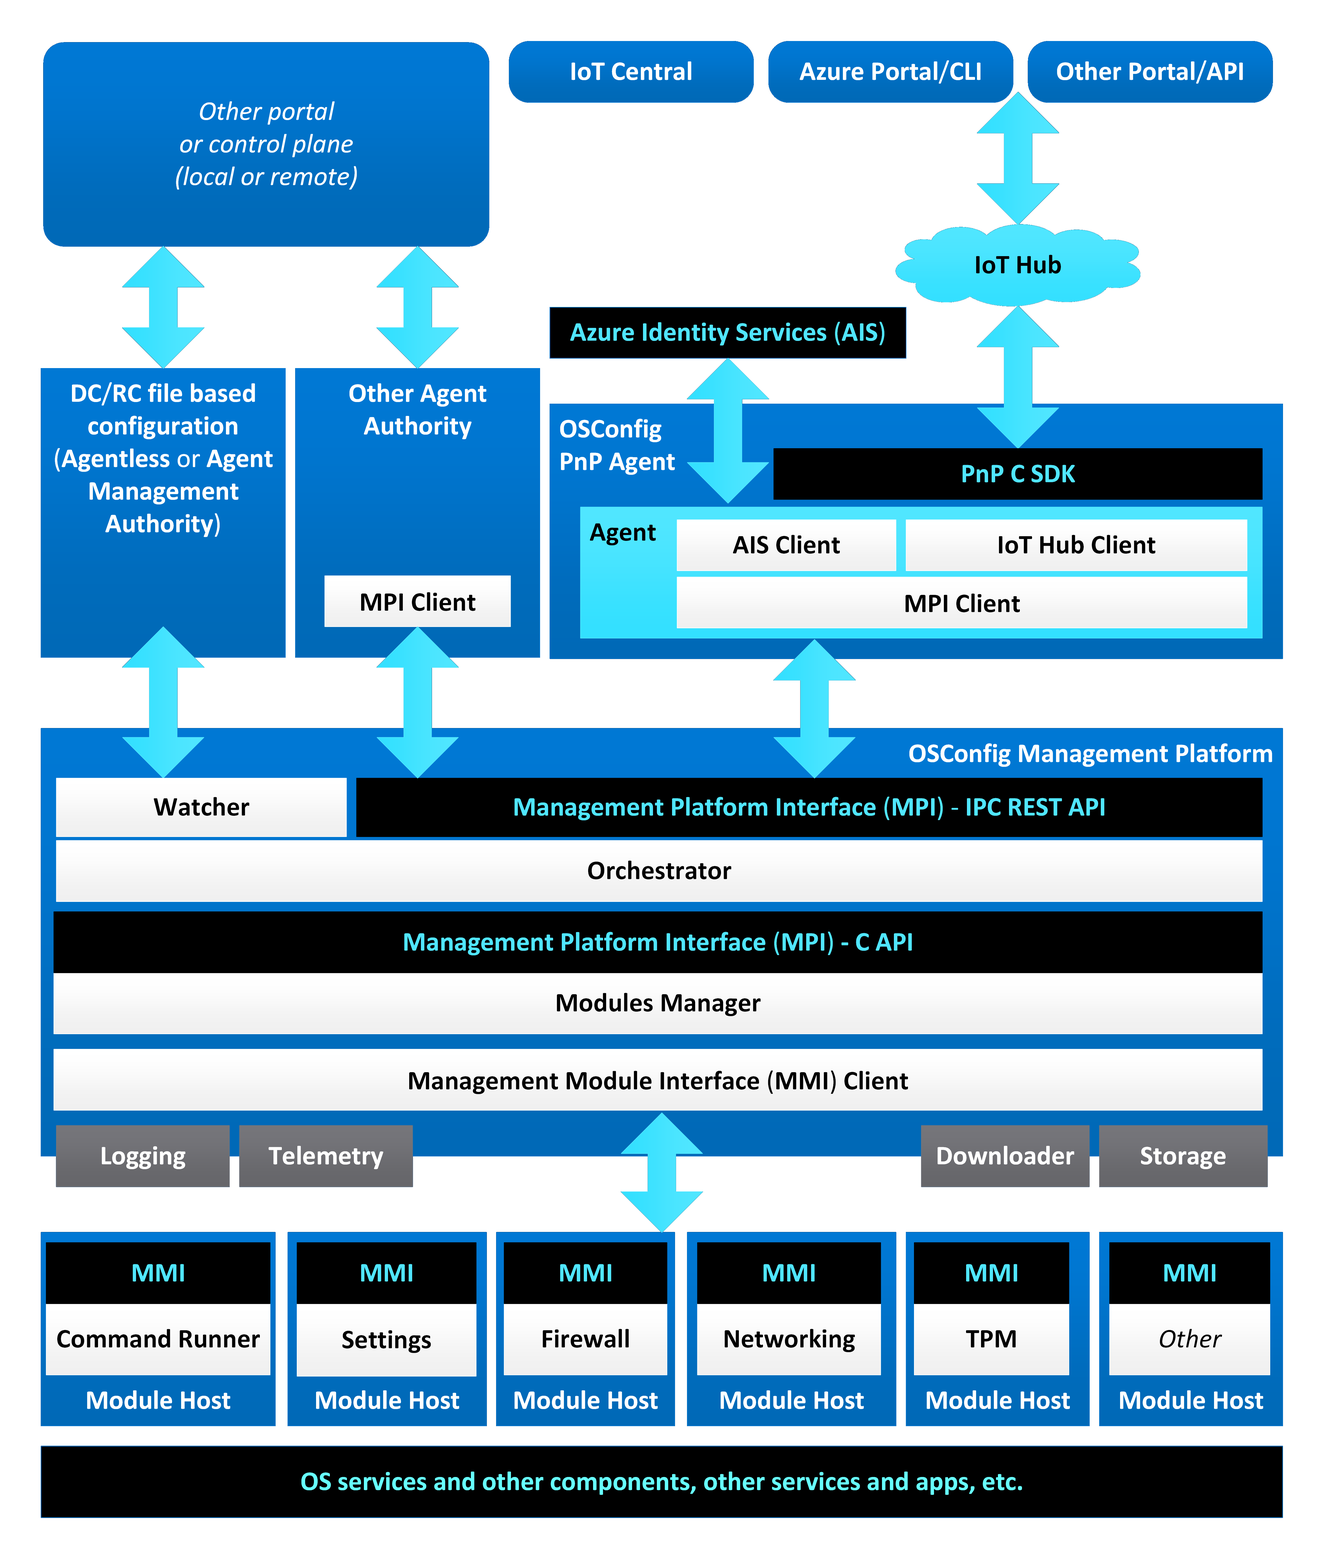
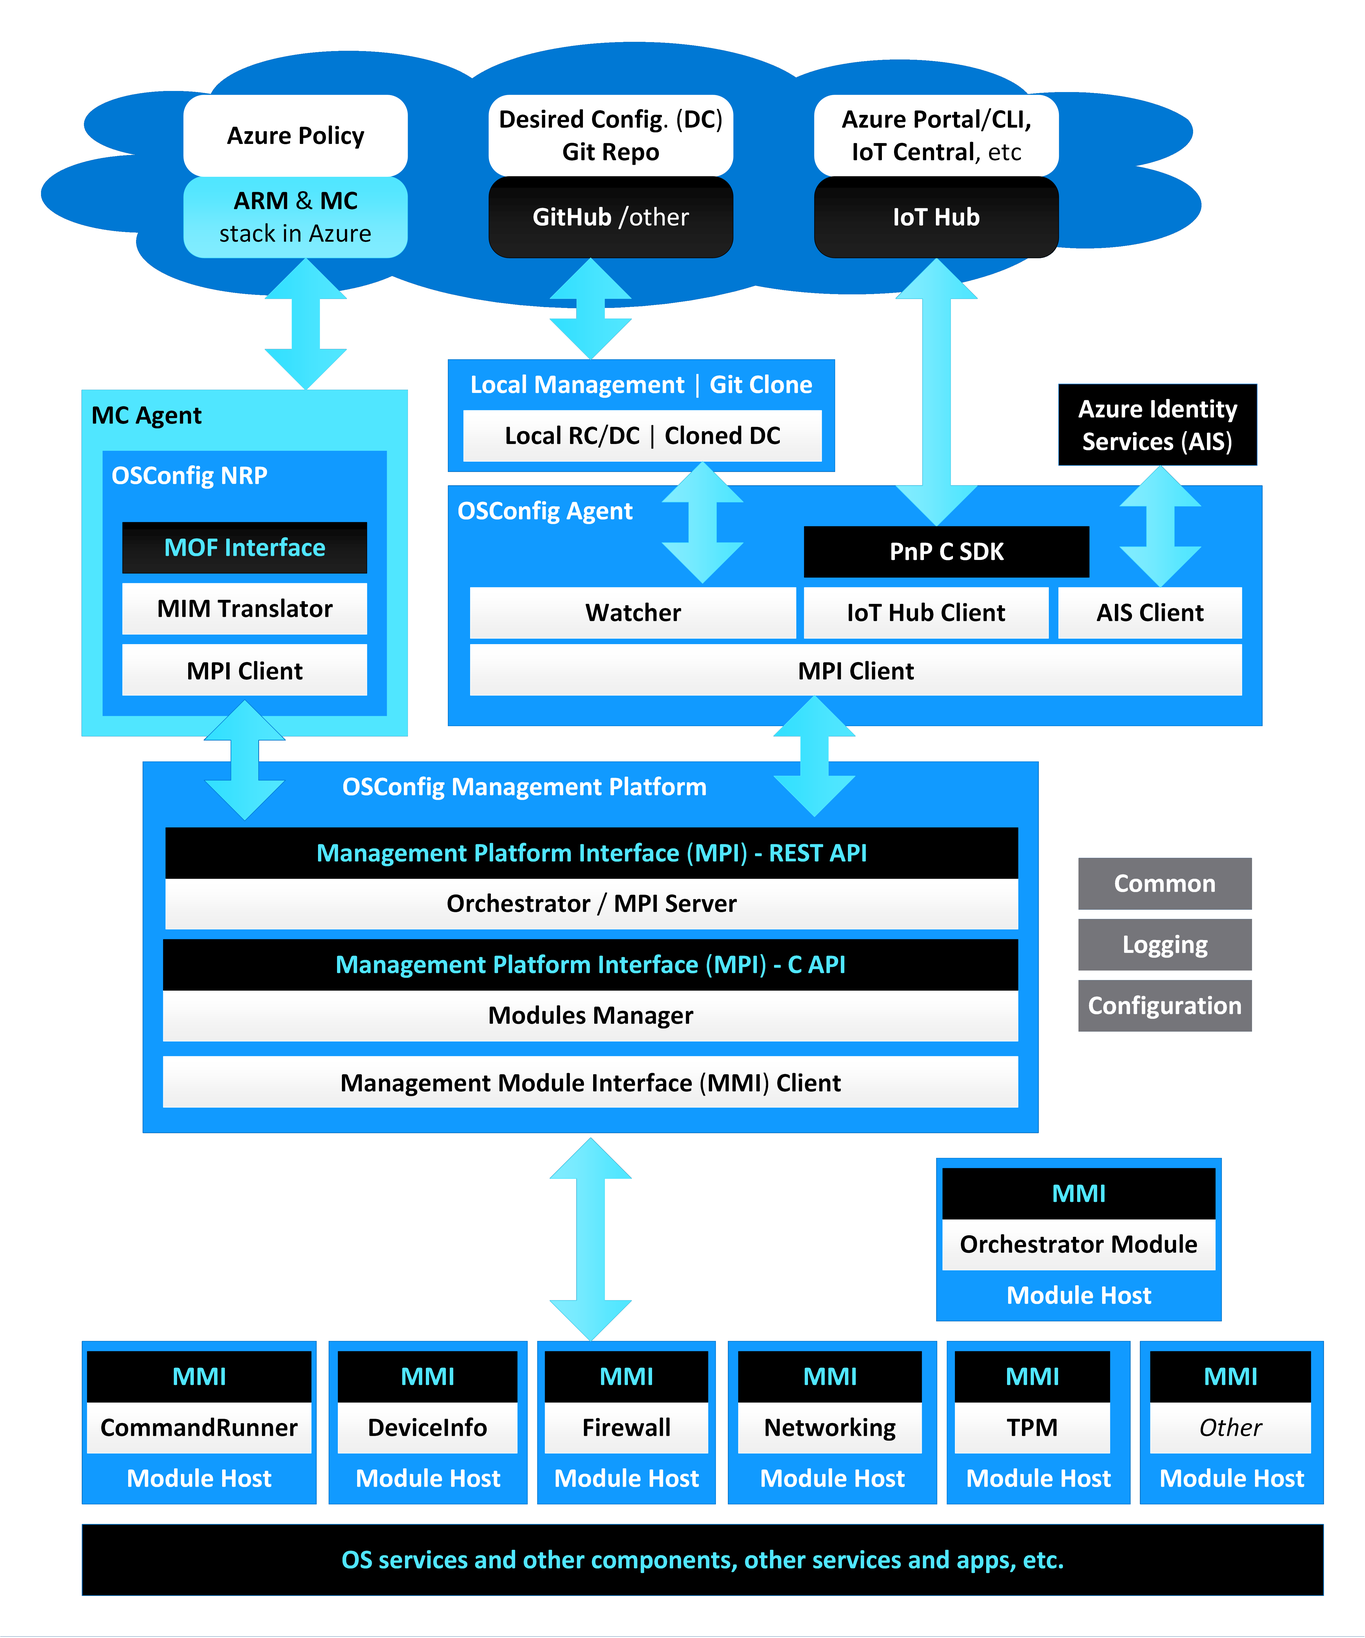
Updating the documentation for Azure Policy, GitOps and more.

diff --git a/docs/architecture.md b/docs/architecture.md
@@ -4,7 +4,7 @@ Author: [MariusNi](https://github.com/MariusNi)
 
 # 1. Introduction
 
-Azure Device OS Configuration (OSConfig) is a modular services stack running on a Linux Edge device that facilitates remote Linux IoT device management over Azure (via [Azure PnP](https://docs.microsoft.com/en-us/azure/iot-pnp/overview-iot-plug-and-play), [Digital Twins](https://github.com/Azure/opendigitaltwins-dtdl/blob/master/DTDL/v2/dtdlv2.md), IoT Hub, [IoT Central](https://azure.microsoft.com/en-us/services/iot-central/), Azure Portal/CLI) as well local management (such as from OOBE and ADU, etc.). On the device OSConfig runs alongside [Azure Device Update (ADU)](https://github.com/Azure/adu-private-preview), Defender, Edge Runtime, and others.
+Azure Device OS Configuration (OSConfig) is a modular services stack running on a Linux Edge device that facilitates remote Linux device management over Azure (via [Azure PnP](https://docs.microsoft.com/en-us/azure/iot-pnp/overview-iot-plug-and-play), [Digital Twins](https://github.com/Azure/opendigitaltwins-dtdl/blob/master/DTDL/v2/dtdlv2.md), IoT Hub, [IoT Central](https://azure.microsoft.com/en-us/services/iot-central/), Azure Portal/CLI), Azure Policy, as well local management (such as from OOBE and ADU, etc.). On the device OSConfig runs alongside [Azure Device Update (ADU)](https://github.com/Azure/adu-private-preview), Defender, Edge Runtime, and others.
 
 <img src="assets/bigpicture.png" alt="OSConfig" width=80%/>
 
@@ -16,18 +16,18 @@ Core design principles for OSConfig are the following:
 - Portable and extensible to other management platforms.
 - Simple and focused on what is truly needed.
 - Not permanently tied to Azure IoT.
-- Declarative style device management, Digital Twin-like.
+- Declarative style device management.
 
 Modular, decoupled architecture means that each layer in OSConfig can be detached from the other OSConfig layers above it and be directly invoked:
 
-- The OSConfig Management Platform can be directly invoked by any management authority or agent over its Management Platform Interface (MPI). The platform is not permanently attached to the OSConfig PnP Agent and OSConfig is not permanently tied to Azure IoT.
+- The OSConfig Management Platform can be directly invoked by any management authority or agent over its Management Platform Interface (MPI). The platform is not permanently attached to the OSConfig Agent and OSConfig is not permanently tied to Azure IoT.
 - Each OSConfig Management Module can be directly invoked over the module's Management Module Interface (MMI), either in-proc or from separate process. The modules are not permanently attached to the platform.
 
 In general:
 
 - If only a module-specific function is needed, that module can be directly invoked over its MMI.
 - If orchestrated functionality of multiple modules is needed, the Platform can be invoked over MPI.
-- If remote reach over Azure and IoT Hub is needed, only then the PnP Agent becomes necessary.
+- If remote reach over Azure and IoT Hub is needed, only then the Agent becomes necessary.
 
 The main way of contributing to and extending OSConfig is via developing new [OSConfig Management Modules](modules.md).
 
@@ -37,17 +37,17 @@ This diagram shows the current North Star architecture of OSConfig. In this diag
 
 <img src="assets/osconfig.png" alt="OSConfig North Star" width=70%/>
 
-# 3. OSConfig PnP Agent
+# 3. OSConfig Agent
 
 ## 3.1. Introduction
 
-The OSConfig PnP Agent handles communication with IoT Hub. The agent is a thin client running as a daemon (Linux background service) using the IoT Client APIs from the [Azure IoT PnP C SDK](https://github.com/Azure/azure-iot-sdk-c) to connect to the IoT Hub that receives Desired Twin updates from and makes Reported Twin updates to the IoT Hub. 
+The OSConfig Agent handles communication with IoT Hub and Reported Configuration/Desired Configuration (RC/DC) files. The agent is a thin client running as a daemon (Linux background service) using the IoT Client APIs from the [Azure IoT PnP C SDK](https://github.com/Azure/azure-iot-sdk-c) to connect to the IoT Hub that receives Desired Twin updates from and makes Reported Twin updates to the IoT Hub and the RC/DC files. 
 
-The agent relies on the [Azure Identity Services (AIS)](https://azure.github.io/iot-identity-service/) to obtain a module identity that allows it to connect to the IoT Hub alongside other locally present PnP agents. 
+The agent relies on the [Azure Identity Services (AIS)](https://azure.github.io/iot-identity-service/) to obtain a module identity that allows it to connect to the IoT Hub alongside other locally present agents. 
 
-The agent communicates with the lower Management Platform over the Management Platform Interface (MPI) IPC REST API.
+The agent communicates with the OSConfig Management Platform over the Management Platform Interface (MPI) IPC REST API.
 
-<img src="assets/pnpagent.png" alt="OSConfig PnP Agent" width=50%/>
+<img src="assets/agent.png" alt="OSConfig Agent" width=50%/>
 
 The agent is completely decoupled from the platform and the modules. A new module can be installed, and necessary PnP interface(s) published as part of the OSConfig Model and that will be enough to make OSConfig use the respective module, without the need to recompile the agent or the platform.
 
@@ -58,6 +58,16 @@ The agent  uses the PnP C SDK's HTTP helper APIs to make GET and POST requests t
 ## 3.3. IoT Hub Client
 
 The agent's  IoT Hub Client parses the Desired Twin payload received from the IoT Hub to separate individual PnP property values. The agent does not attempt to parse the property values. 
+
+## 3.4. Watcher
+
+The Watcher monitors the Desired Configuration (DC) file and acts on detected file changes by making MpiSetDesired calls to the Management Platform. The Watcher also makes MpiGetReported calls to the Management Platform and writes the reported configuration to the Reported Configuration (RC) file. 
+
+The pair of DC and RC files are written in MIM JSON format. The RC/DC files act as local Device Twins. 
+
+To protect against unauthorized access, the DC and RC files are restricted to root user read and write access only.
+
+The  DC and RC files by default reside under /etc/osconfig/ as `/etc/osconfig/osconfig_desired.json` (the DC file) and `/etc/osconfig/osconfig_reported.json` (the RC file) but can be moved to a configurable location which could be a local Git clone, for example.
 
 ## 3.5. MPI Client
 
@@ -75,9 +85,9 @@ In the opposite direction, OSConfig agent periodically updates the Reported Twin
 
 ## 4.1. Introduction
 
-The OSConfig Management Platform runs in its own daemon process. The platform communicates with the upper agents layer (such as: the OSConfig PnP Agent, Azure Device Update Agent, a TBD OOBE Agent -a concept of OOBE components calling the OSConfig platform, etc.) over the Management Platform Interface (MPI) REST API. 
+The OSConfig Management Platform runs in its own daemon process. The platform communicates with the upper agents layer (such as: the OSConfig Agent, Azure Device Update Agent, a TBD OOBE Agent -a concept of OOBE components calling the OSConfig platform, etc.) over the Management Platform Interface (MPI) REST API. 
 
-The platform communicates to the lower modules layer over the Management Modules Interface (MMI) REST API.
+The platform communicates to the OSConfig Managewment Modules over the Management Modules Interface (MMI) REST API.
 
 <img src="assets/platform.png" alt="OSConfig Management Platform" width=60%/>
  
@@ -89,18 +99,16 @@ The platform includes the following main components:
 - Modules Manager: receives serialized requests over the MPI C API, dispatches the requests to Module Hosts over the MMI REST API.
 - MMI Client: makes MMI REST API calls to Module Hosts over HTTP and UDS. 
 
-The platform also includes following utility/helper components:
+The platform also includes several utility libraruies which are shared with all OSConfig components, including agent and modules:
 
-- Telemetry: telemetry event writing for the agent, platform, and the modules.
-- Logging: a logging library for the agent, platform and modules.
-- Storage: a library for secure storage for the platform and the modules that need to persist state.
-- Downloader: a library to help modules download files from Azure Storage. 
+- Logging: file and console circular logging library.
+- CommonUtils: various utility APIs useful for accesing and working with the Linux OS.
 
 The platform is completely decoupled from the agent and the modules. The platform can function without the agent, invoked over the MPI. New modules can be installed without changing or recompiling the platform.
 
 ## 4.2. Management Platform Interface (MPI)
 
-The Management Platform Interface (MPI) provides a way for the OSConfig Management Platform to be invoked by management authorities/Agents. 
+The Management Platform Interface (MPI) provides a way for the OSConfig Management Platform to be invoked by management authorities/agents. 
 
 The MPI has two different implementations:
 
@@ -138,17 +146,7 @@ Example:
 
 This format is following the MIM JSON payload schema described in the [OSConfig Management Modules](modules.md) specification.
 
-## 4.3. Watcher
-
-The Watcher monitors a local Desired Configuration (DC) file and acts on detected file changes by making in-process MpiSetDesired calls to the Management Platform. The Watcher also makes in-process MpiGetReported calls to the Management Platform and writes the reported configuration to a local Reported Configuration (RC) file. 
-
-The pair of DC and RC files are written in the JSON format summarized in previous section. These files act as local Device Twins. 
-
-To protect against unauthorized access, the DC and RC files are restricted to root user read and write access only.
-
-The  DC and RC files reside under /etc/osconfig/ as `/etc/osconfig/osconfig_desired.json` (the DC file) and `/etc/osconfig/osconfig_reported.json` (the RC file).
-
-## 4.4. Orchestrator
+## 4.3. Orchestrator
 
 The Orchestrator receives management requests from agents over the Management Platform Interface (MPI) IPC REST API. The Orchestrator combines the requests in a serial sequence that it feeds into the Module Manager to dispatch the requests to the respective Management Modules.
 
@@ -175,7 +173,9 @@ For PnP:
 - The Orchestrator cannot change midway in the platform desired requests from the Twins and cannot change reported requests to the Twins - doing so violates the Twins-MIM contract.
 - Once a desired object is set on the Twin, that object gets automatically re-applied to the device until it is corrected on the Twin by the remote authority. OSConfig can reject a desired payload but cannot correct that payload on the Twin. The device cannot change Desired Twin content.
 
-## 4.5. Modules Manager
+Special OSConfig Management Modules that implement more complex scenarios and only invoke other modules, without adding any other OS configuration of their own, can also orchestrate.
+
+## 4.4. Modules Manager
 	
 The Modules Manager receives serialized MPI C API requests from the Orchestrator and dispatches the requests over MMI to the appropriate Management Modules in the order they arrive. Also, the Modules Manager returns the modules responses to the Orchestrator. 
 
@@ -201,7 +201,7 @@ What the Module Manager does not do:
 - Receive input from multiple callers. The Orchestrator orders the requests from multiple management authorities in one sequence that is feed into the Modules Manager.
 - Retry the same MMI request to a module multiple times after a failure. The modules can internally retry, the upper OSConfig stack, including the Modules Manager shall not automatically retry.
 
-## 4.6. Module Host 
+## 4.5. Module Host 
 
 The Module Host is a thin executable shell provided by OSConfig that wraps (loads) a Management Module (Dynamically Linked Shared Object library .so) and provides the Unix Domain Sockets (UDS) Module Management Interface (MMI) REST API on behalf of the loaded module which allows the module to be called by any management authority directly, by-passing rest of OSConfig, if needed. The Module Host communicates with the loaded module over the MMI C API that the module implements. 
 
@@ -213,7 +213,7 @@ Isolating the modules into their own processes makes it harder for them to inter
 
 For more details on the Module Interface Model (MIM) and MIM components see the [OSConfig Management Modules](modules.md) specification.
 
-## 4.7. Module Management Interface (MMI) 
+## 4.6. Module Management Interface (MMI) 
 
 The Management Module Interface (MMI) is almost identical to the Management Platform Interface (MPI), except that: 
 
@@ -233,7 +233,7 @@ The MMI C API header file is [src/modules/inc/Mmi.h](../src/modules/inc/Mmi.h)
 
 For more details on the MMI C API including MmiGetInfo see the see the [OSConfig Management Modules](modules.md) specification.
 
-## 4.8. Downloader
+## 4.7. Downloader
 
 For requests that involve big data, instead of the actual data being transmitted over the MPI and MMI, download URI paths could be transmitted, pointing to desired configuration files uploaded (for example, on Azure Storage) by a Composer App (editor app for the desired configuration files).
 
@@ -241,21 +241,31 @@ For requests that involve big data, instead of the actual data being transmitted
  
 The Downloader can be a Dynamically Linked Shared Object library (.so) provided by OSConfig for benefit of both OSConfig Management Platform (when downloads go into platform - see B) and (where this is mostly expected to be needed - see A) for Management Modules. The modules would load this dynamic Downloader library in their Module Host processes and invoke the Downloader API.
 
-## 4.9. Storage
+## 4.8. Secure Store
 
-The OSConfig Management Platform and the Management Modules may need to persist data, saving it locally on disk to be available across device reboot. To make it easier for module developers, OSConfig can provide a Storage component as a Dynamically Linked Shared Object library (.so)  with an API for secure data storage, retrieval, and erase (where the storage files would be managed by OSConfig).
+The OSConfig Management Platform and the Management Modules may need to persist data locally to be available across device reboot. 
 
-## 4.10. Logging
+To make it easier for module developers, OSConfig can provide a Secure Store storage component either as a Dynamically Linked Shared Object library (.so) loaded by the OSConfig Platform or running in its own separate daemon process. 
+
+The store can be accessed over a Store REST API modeled after the MPI REST API. The Store API can store and retrieve MIM settings per MIM components and MIM objects, per management authority, and can also add audit logging, to record who did what and when. A Store Client API can be provided as a static library. 
+
+The Secure Store storage can be under /etc/osconfig/, like the current RC/DC files, just separate per MIM component (such as for example /etc/osconfig/firewall_desired.json) and client (for example /etc/osconfig/configlock) and (unlike RC/DC files) not meant to be accessed directly and/or by any local management authority or user, but only by OSConfig and other Store API clients. The files could be encrypted in a way that only legit Store API clients can decrypt. 
+
+By default file access would be restricted to root for everything, including read. The North Star for the Secure Store is to block all direct access to the files, except via the Store API.
+
+<img src="assets/securestore.png" alt="Secure Store" width=70%/>    
+
+## 4.9. Logging
 
 OSConfig provides a Logging library component that makes it easy for all OSConfig components to log in a standard fashion to date and time stamped self-rolled log files.
 
 For more details on the Logging library and its use by modules see the [OSConfig Management Modules](modules.md) specification.
 
-## 4.11. Telemetry
+## 4.10. Telemetry
 
 OSConfig has its own Telemetry via its product information submitted to the IoT Hub. OpenTelemetry is a potential future path.
 
-## 4.12. Monitoring
+## 4.11. Monitoring
 
 Not shown in diagrams is monitoring for device configuration changes. One way monitoring can be done on Linux is via [OSQuery](https://www.osquery.io/) targeted or device wide snapshots deltas. This can be done with an OSQuery Module.
 
@@ -294,3 +304,30 @@ For more information about the MIM see the [OSConfig Management Modules](modules
 ## 5.3. OSQuery Module
 
 The OSQuery Module implements an adapter for [OSQuery](https://www.osquery.io/). This module can support multiple MIM components and PnP interfaces that are read-only (all reported, no desired configuration) and leverage OSQuery to retrieve the respective configuration from the device. To be decided.
+
+## 5.4. Orchestrator Module
+
+In general, we can adappt OSConfig Management Modules to MC and Azure Policy by flattening their MIMs (all simple objects, one simple type setting per object) and matching desired with reported.
+
+A new kind of OSConfig Management Module can be added: an Orchestrator Module loads other modules and execute combination of standard OSConfig module scenarios, without dealing itself with any direct OS configuration. There can be one or multiple Orchestrator Modules, each one of them using a different combination of standard modules, and/or using same modules but in different ways. The power of Orchestrator Modules is that they can wrap more complex scenarios in simple MIM models and thus work better with Azure Policy. 
+
+# 5. OSConfig Native Resource Provider (NRP)
+
+The OSConfig Native Resource Provider is an univeral NRP that links OSConfig to the [Azure Automanage Machine Configuration (MC)](https://learn.microsoft.com/en-us/azure/governance/machine-configuration/). 
+
+Using MC and this NRP, we can create Azure Policies that will automatically target for compliance audit or remediation all Arc devices in a particular Azure subscription or Azure resource group. 
+
+Using thie NRP, each Azure Policy can audit/remediate one read-write pair of MIM settings and multiple Policies can audit/remediate multiple read-write pairs of MIM settings, aka whole device configuration.
+
+The NRP can have resource class parameters such as:
+
+- Component (for Set/Get/Audit): the name of the MIM component/object.
+- DesiredObject (for Set/Audit): the name of the desired MIM object/setting.
+- DesiredValue (for Set/Audit): the value of the desired MIM object/setting.
+- ReportedObject (for Get/Audit): the name of the reported MIM object/setting.
+- ReportedValue (for Get/Audit): the value of the reported MIM object/setting.
+
+Last two are not used by Azure Policy, can be omitted from the resource class parameters and only used internally for auditing.
+
+<img src="assets/5_guestconfig.png" alt="OSConfig NRP" width=70%/>
+

diff --git a/docs/roadmap.md b/docs/roadmap.md
@@ -67,11 +67,13 @@ The Management Platform runs in its own process, separate of the PnP Agent. OSCo
   
 # 5. Isolated Modules - the current North Star (codename Zinc)
 
-Main target scenario: OSConfig Management Modules run isolated in their own processes.
+Main target scenario: OSConfig Management Modules run isolated in their own processes, Azure Policy and GitHub
 
 - The IPC REST API over UDS for Management Modules Interface (MMI) is introduced.
 - The Module Host is introduced. The Modules Manager instead of loading in-proc the module libraries, it forks a Module Host process to load each module library out-of-proc of the platform.
 - Modules continue to work unchanged, same as in previous releases, as Dynamically Loaded Shared Object libraries exporting the MMI C API. The Module Host provides the MMI REST API on top.
+- A new OSConfig NRP is added for MC and Azure Policy.
+- The local management RC/DC are complemented with a remote Git DC.
 - New Storage and Downloader utility libraries are introduced for Platform and Modules to use.
 - Other new Management Modules appear (not shown in diagram).
 

diff --git a/docs/modules.md b/docs/modules.md
@@ -1057,7 +1057,7 @@ Name | Type| Required? | Description
 -----|-----|-----|-----
 ComponentName | String | Required | Name of the MIM component.
 ObjectName | String | Required | Name of the MIM object.
-Desired | Boolean | Required | True means desired object and false means reported object.
+ObjectType | String | Required | Can be either "Desired" or "Reported".
 Payload | String  | Optional | The JSON payload as escaped JSON. Desired indicates what this payload is: desired payload for MmiSet or expected reported payload for MmiGet. If omitted for a reported object, the ModulesTest automatically validates the the setting name and types against the MIM. 
 PayloadSizeBytes |Integer | Optional | The size of the desired or expected reported payload, in bytes. If omitted, ModuleTest automatically calculates the correct size of the payload. 
 ExpectedResult | Integer | Required | The expected result (such as: 0 for MMI_OK).
